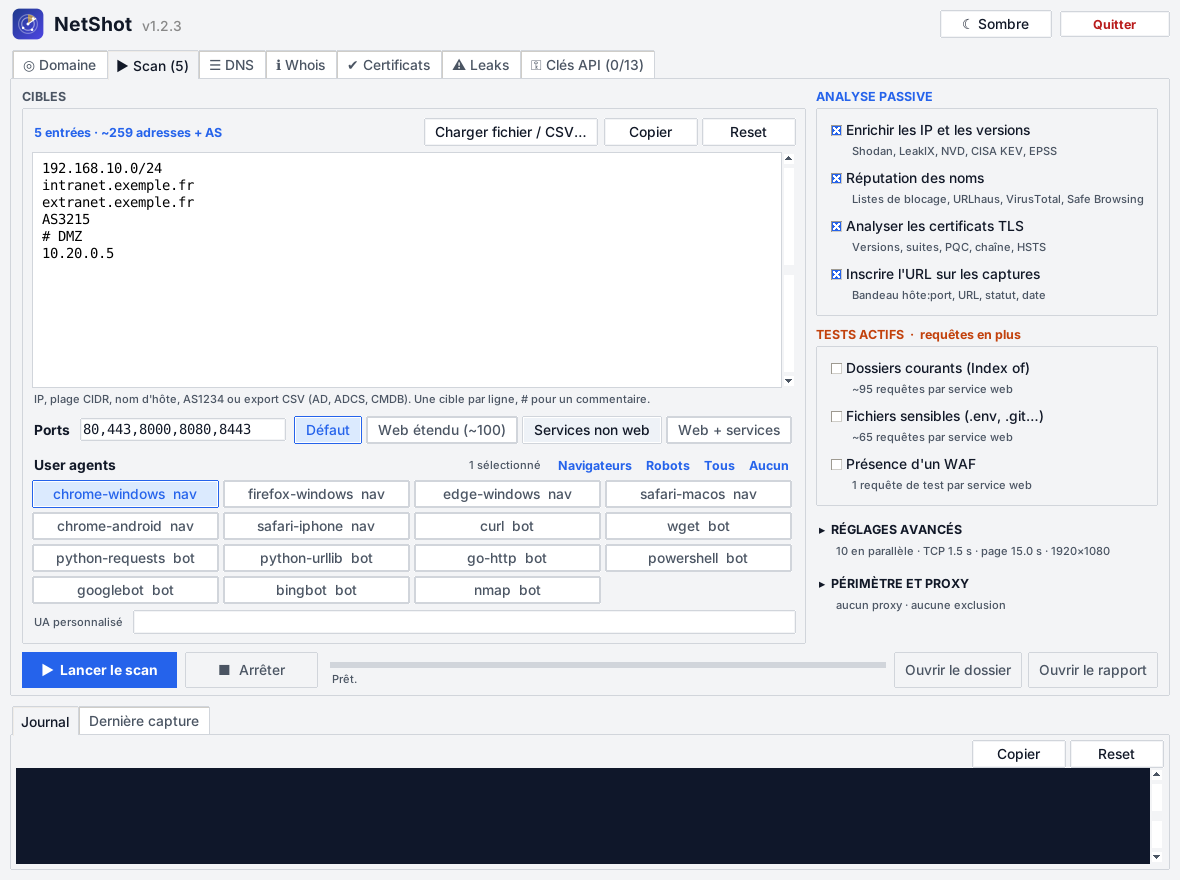
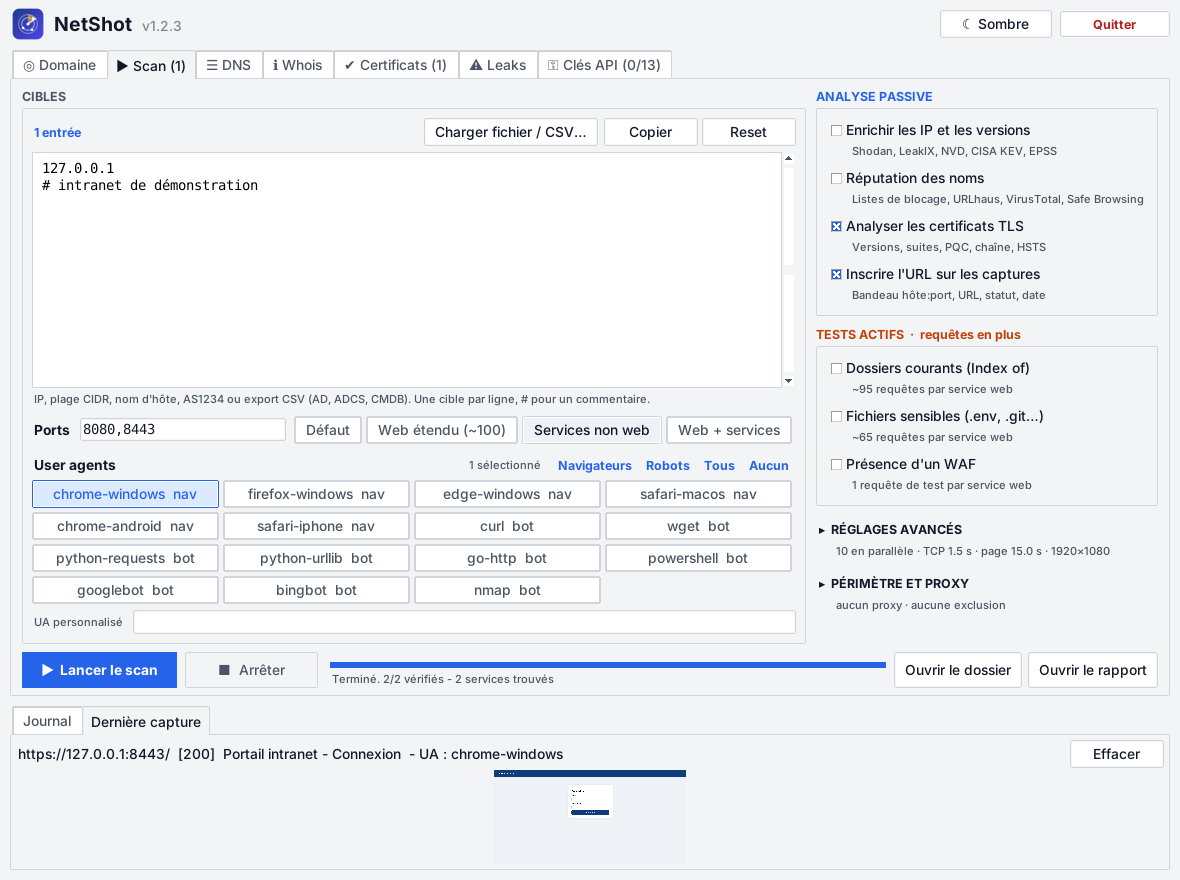
README : captures refaites (scan de démonstration et rapport)
Claude-Session: https://claude.ai/code/session_01DHXZEEBybHgq8eFqwoZAWK

diff --git a/CHANGELOG.md b/CHANGELOG.md
@@ -15,7 +15,9 @@ aux couleurs de la version Python).
   `assets/icon-32.png` dessiné pour 32 px, utilisé dans l'en-tête de la fenêtre à la place de
   l'image de 256 px réduite (plus net). Les deux sont produits par `tools/mkicon` de la version Go
   (`go run ./tools/mkicon -variant python -out ../netshot/assets`).
-- Capture du README mise à jour.
+- Captures du README refaites sur un intranet de démonstration (page de connexion en http et
+  https) : onglet Scan après la capture, et nouvelle capture du rapport HTML du même scan
+  (`docs/netshot-python-rapport.png`).
 
 ### Fichiers
 - `assets/icon.png`, `assets/icon-32.png`, `core/gui.py`, `core/__init__.py`, `README.md`,

diff --git a/README.md b/README.md
@@ -7,7 +7,9 @@ priorisation KEV / EPSS).
 Version Python ; même fonctionnement que la version Go (projet `netshot-go`).
 `keys.json` (clés API) et `settings.json` (thème) ne sont jamais versionnés (`.gitignore`).
 
-![NetShot (Python) : onglet Scan (version 1.2.3)](docs/netshot-python.png)
+![NetShot (Python) : onglet Scan après la capture d'un intranet de démonstration](docs/netshot-python.png)
+
+![NetShot (Python) : rapport HTML du même scan (pages sensibles, technologies, TLS, captures)](docs/netshot-python-rapport.png)
 
 ```
 netshot/
